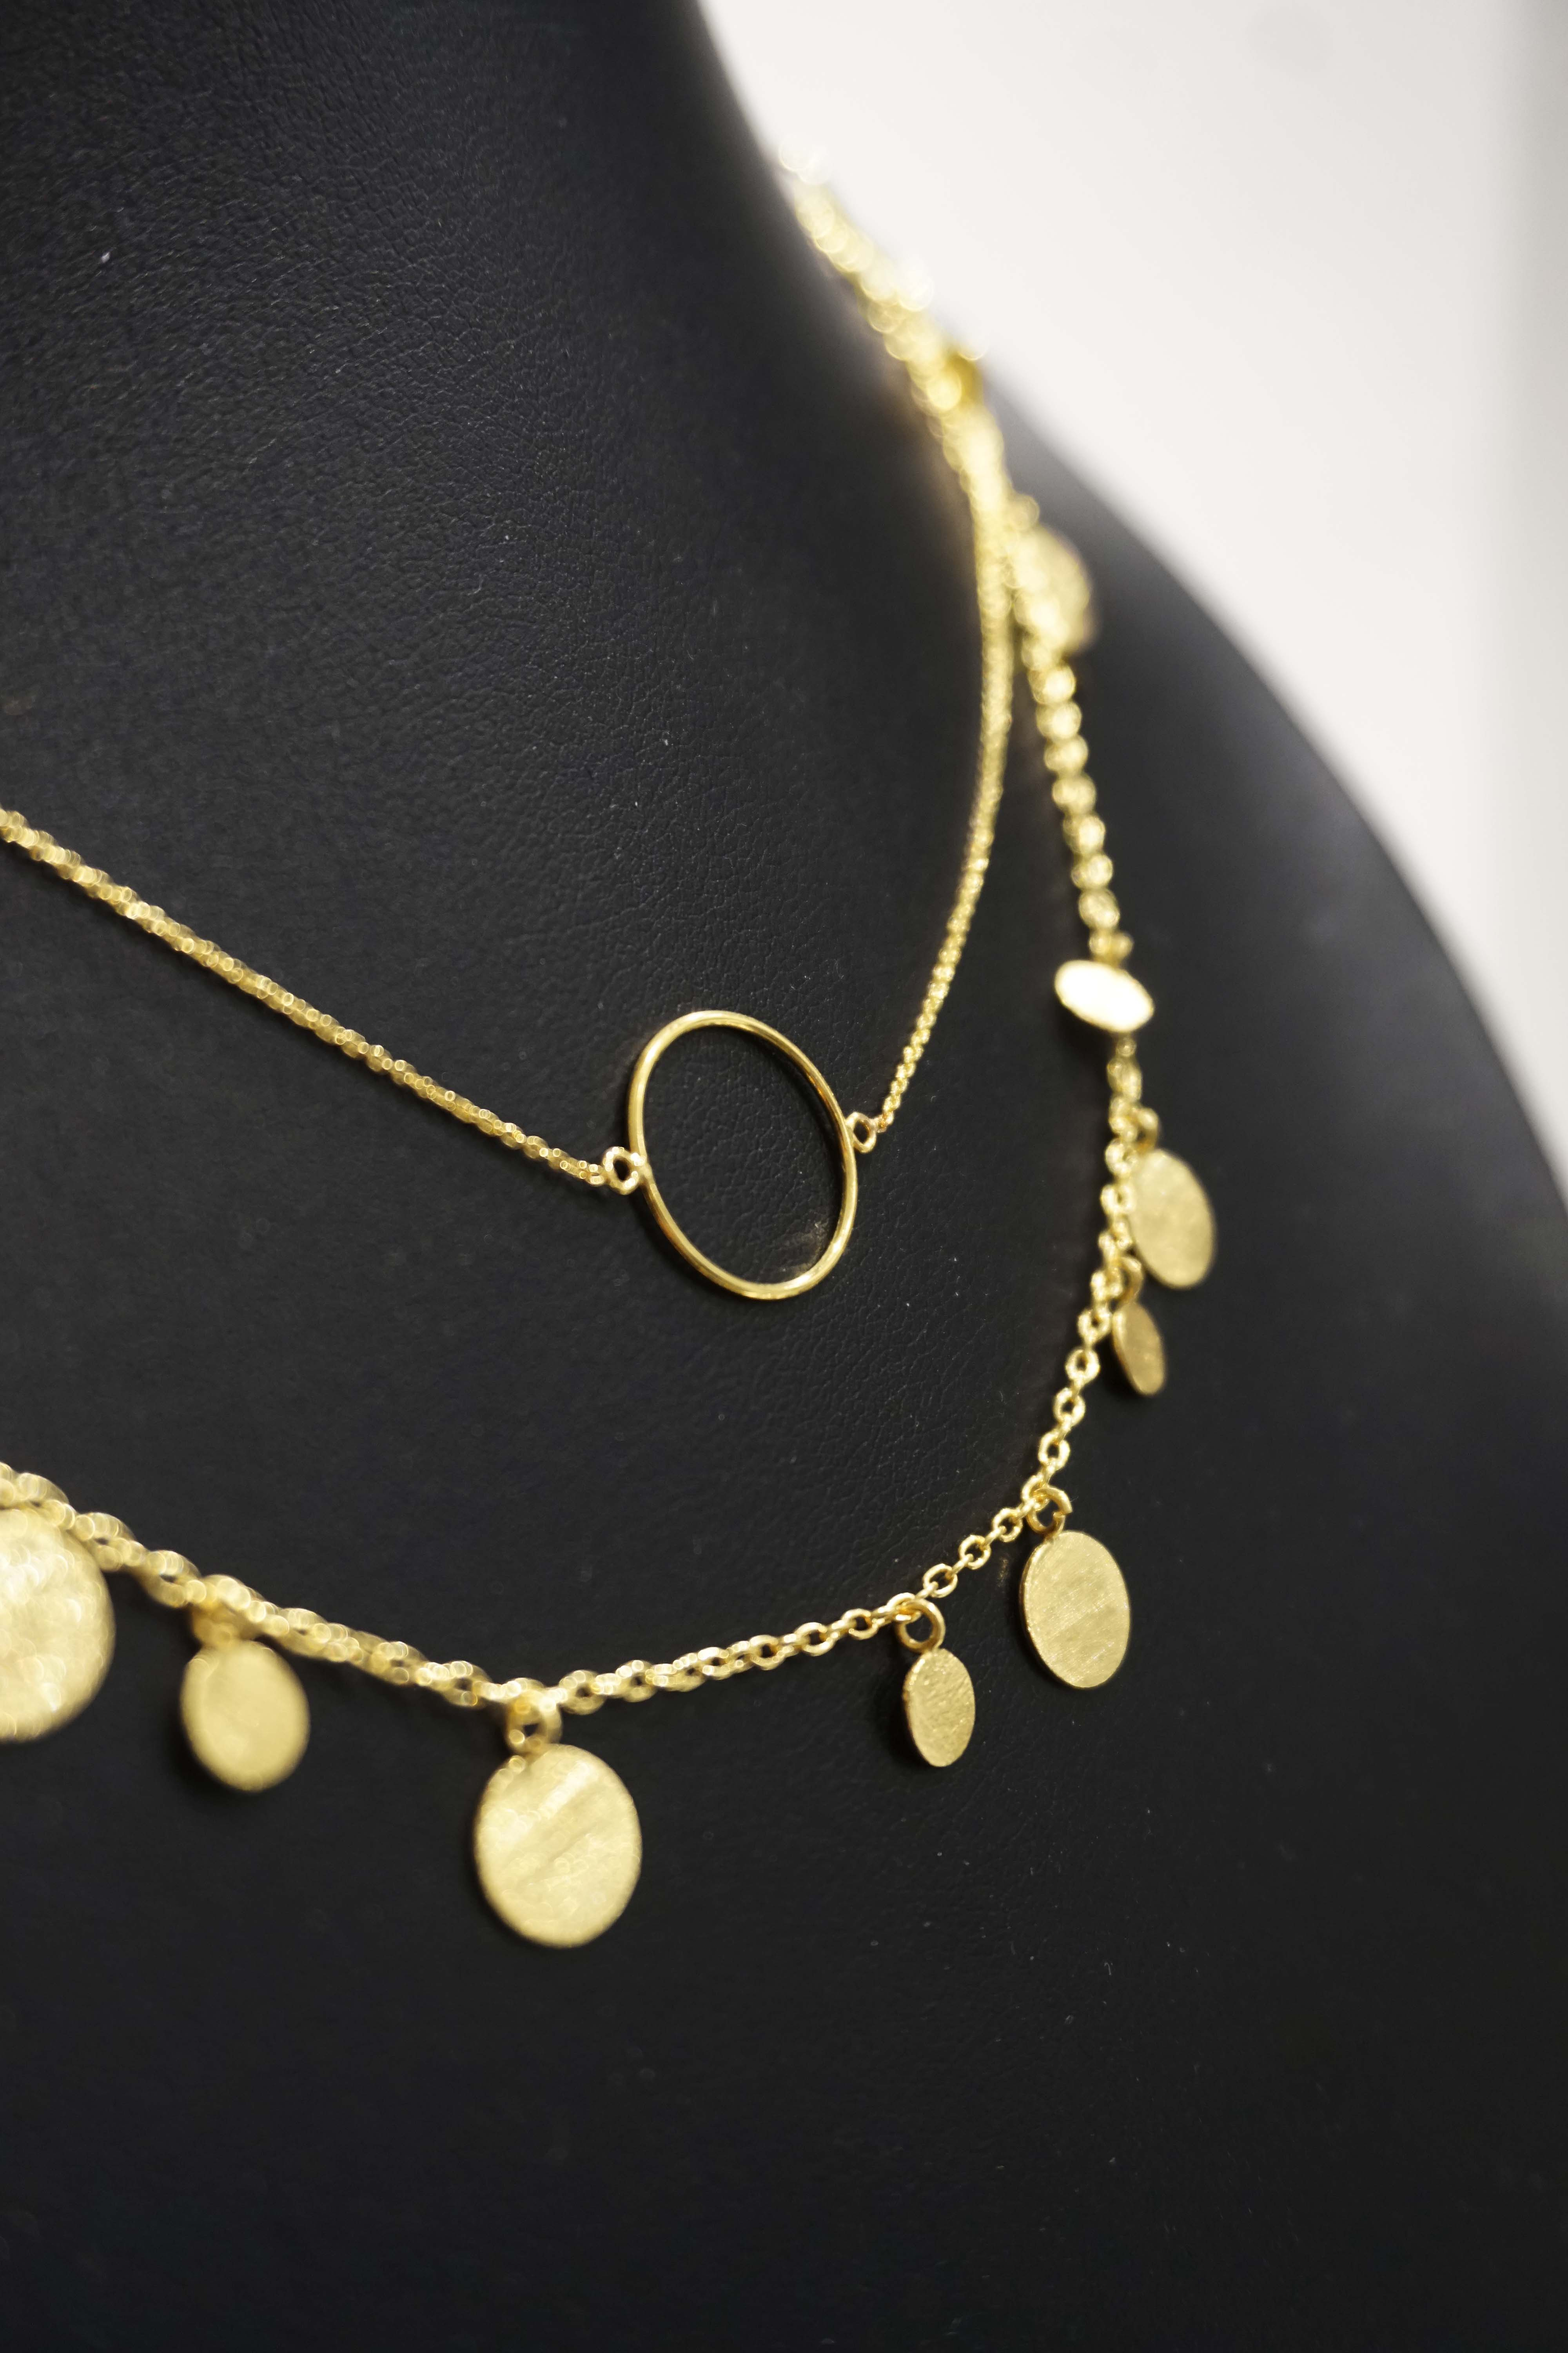
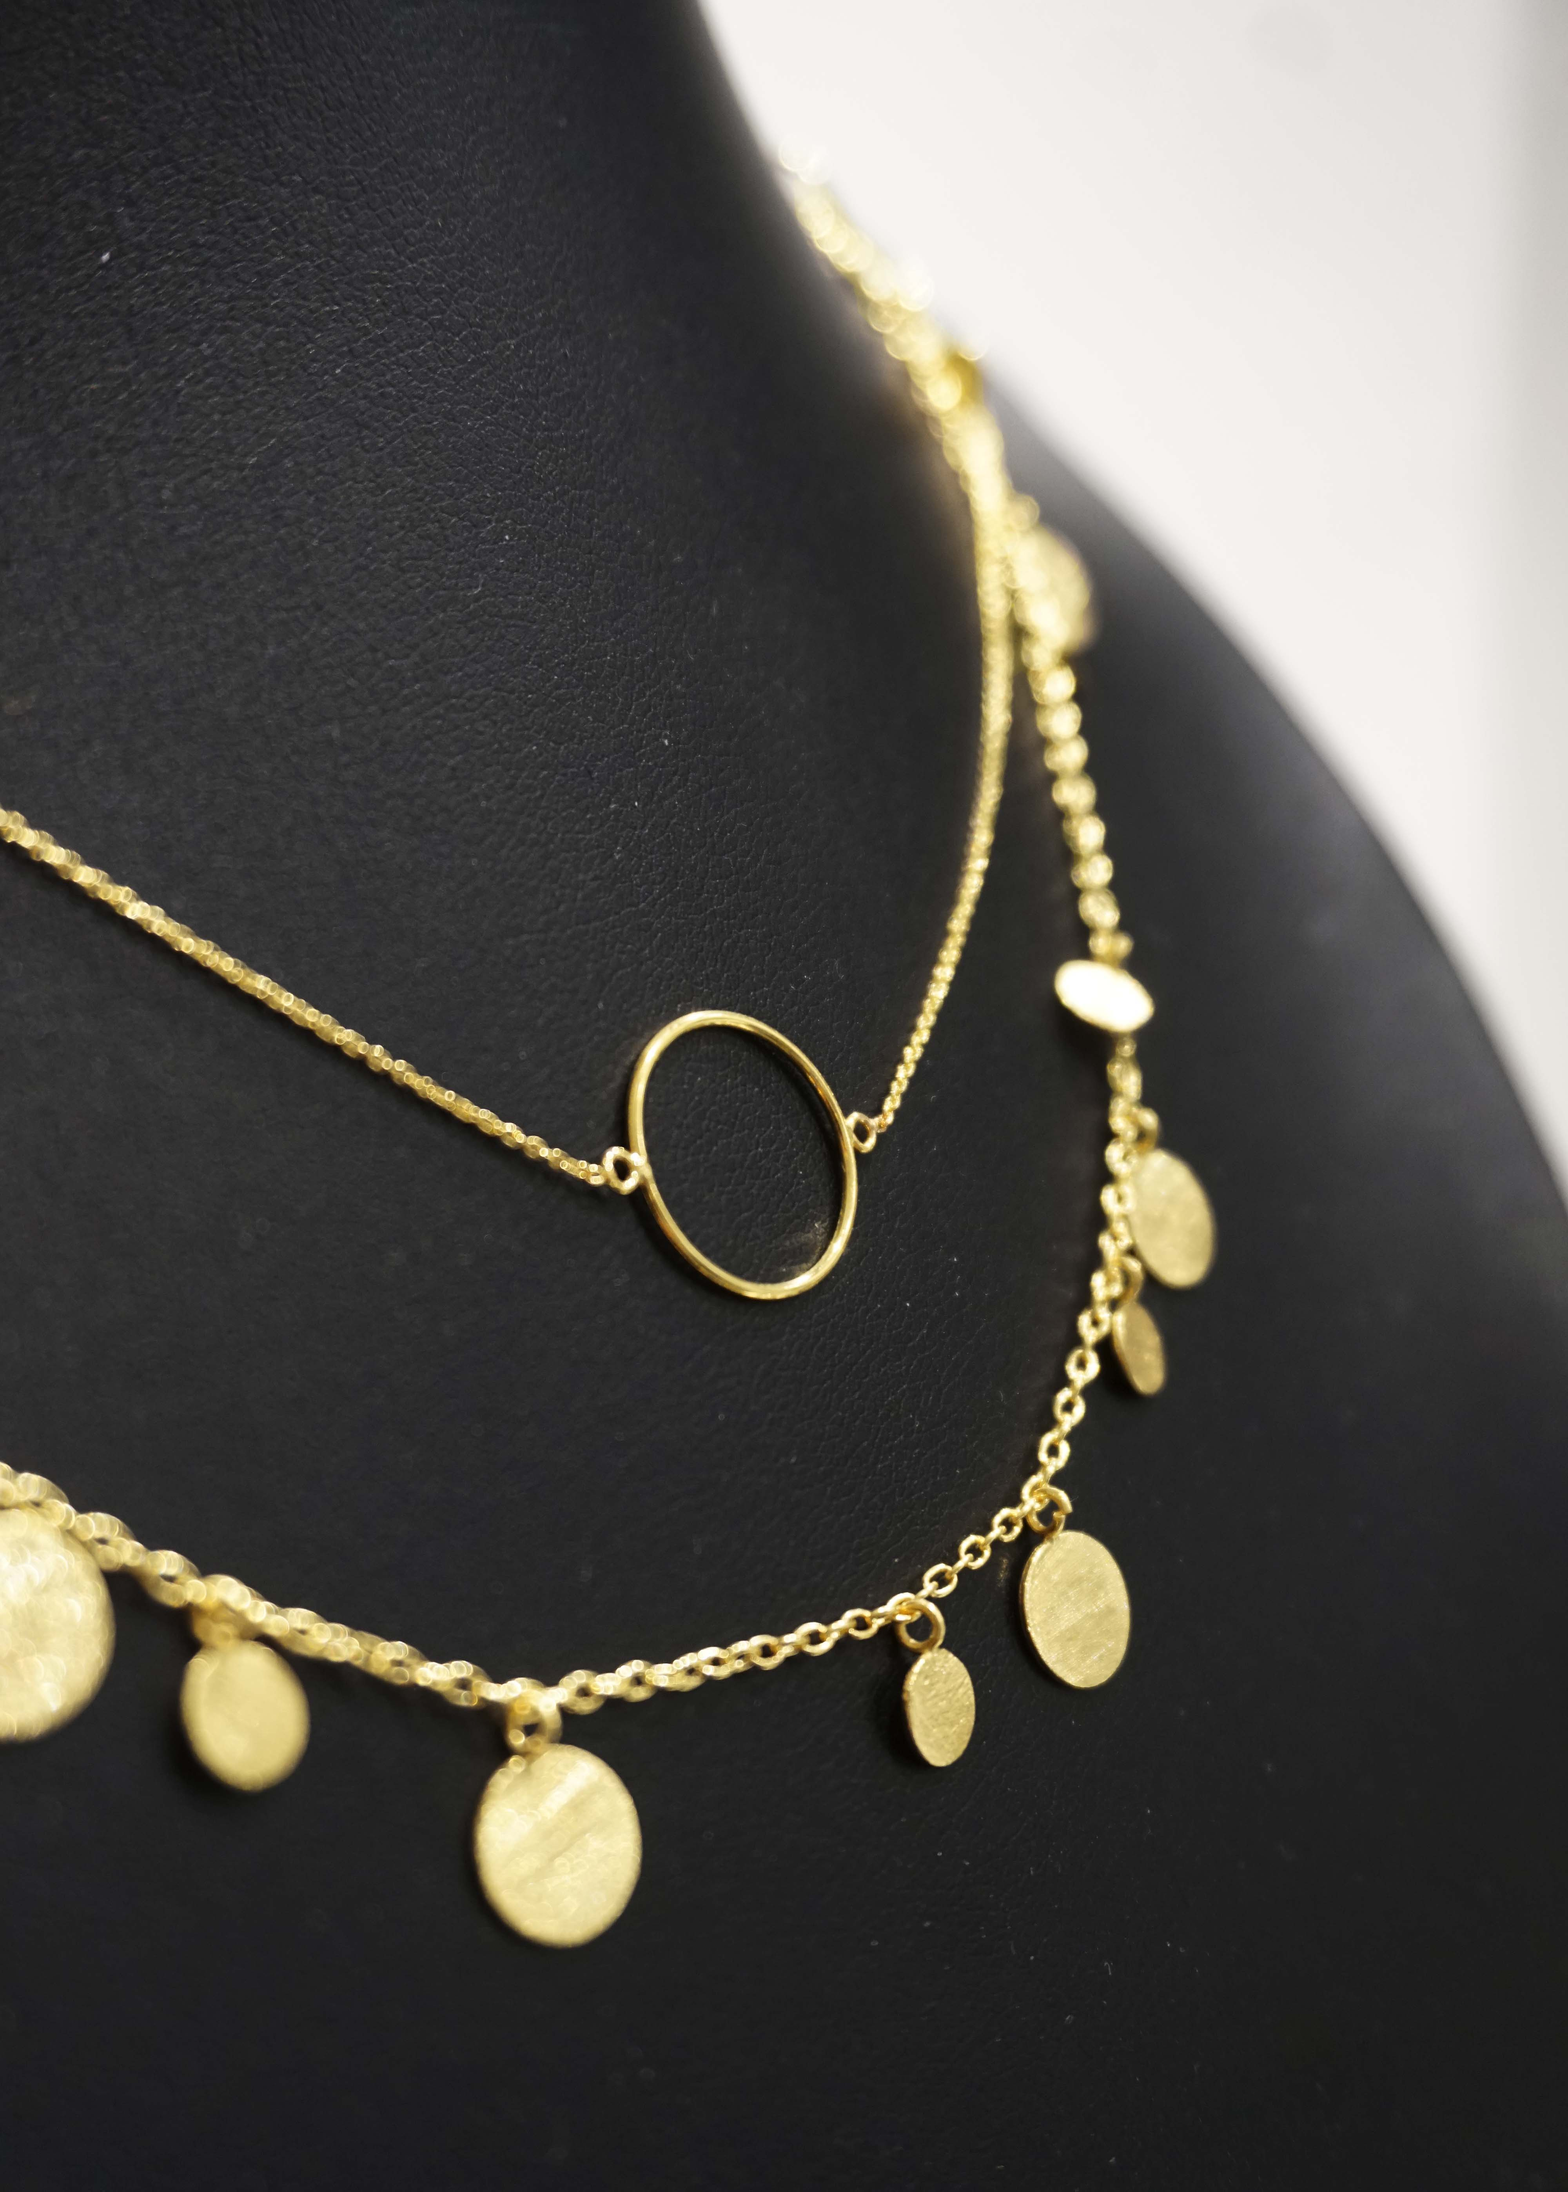
fotos

Changed region(s): [[0.0, 0.0311, 1.0, 0.9027]]

diff --git a/styles/index.css b/styles/index.css
@@ -123,33 +123,18 @@ video {
     grid-template-rows: 1fr;
   }
   #produkt .box-1 {
-    display: grid;
-    place-content: center;
     grid-column: 1/2;
     grid-row: 1/2;
   }
   #produkt .box-2 {
-    display: grid;
-    place-content: center;
     grid-column: 2/3;
     grid-row: 1/2;
   }
   #produkt .box-3 {
-    display: grid;
-    place-content: center;
     grid-column: 3/4;
     grid-row: 1/2;
   }
-  #produkt img {
-    size: cover;
-    /* width: 300px;
-    height: 300px; */
-  }
-  .produkt_section {
-    margin-bottom: 0;
-    margin-top: 0;
-    padding: 0;
-  }
+
   /* service section */
 
   #service .section_wrapper {

diff --git a/index.html b/index.html
@@ -85,7 +85,7 @@
       <div id="produkt">
         <div class="box-1"> 
           
-          <a href="produkt.html#smyk"><h3>Smykker</h3> <img src="foto4.jpg" alt="filler" /></a>
+          <a href="produkt.html#smyk"><h3>Smykker</h3> <img src="fotos_redigeret/halskaede_mannequin.jpg" alt="Halskæde på mannequin" /></a>
           
         </div>
         <div class="box-2"> 
